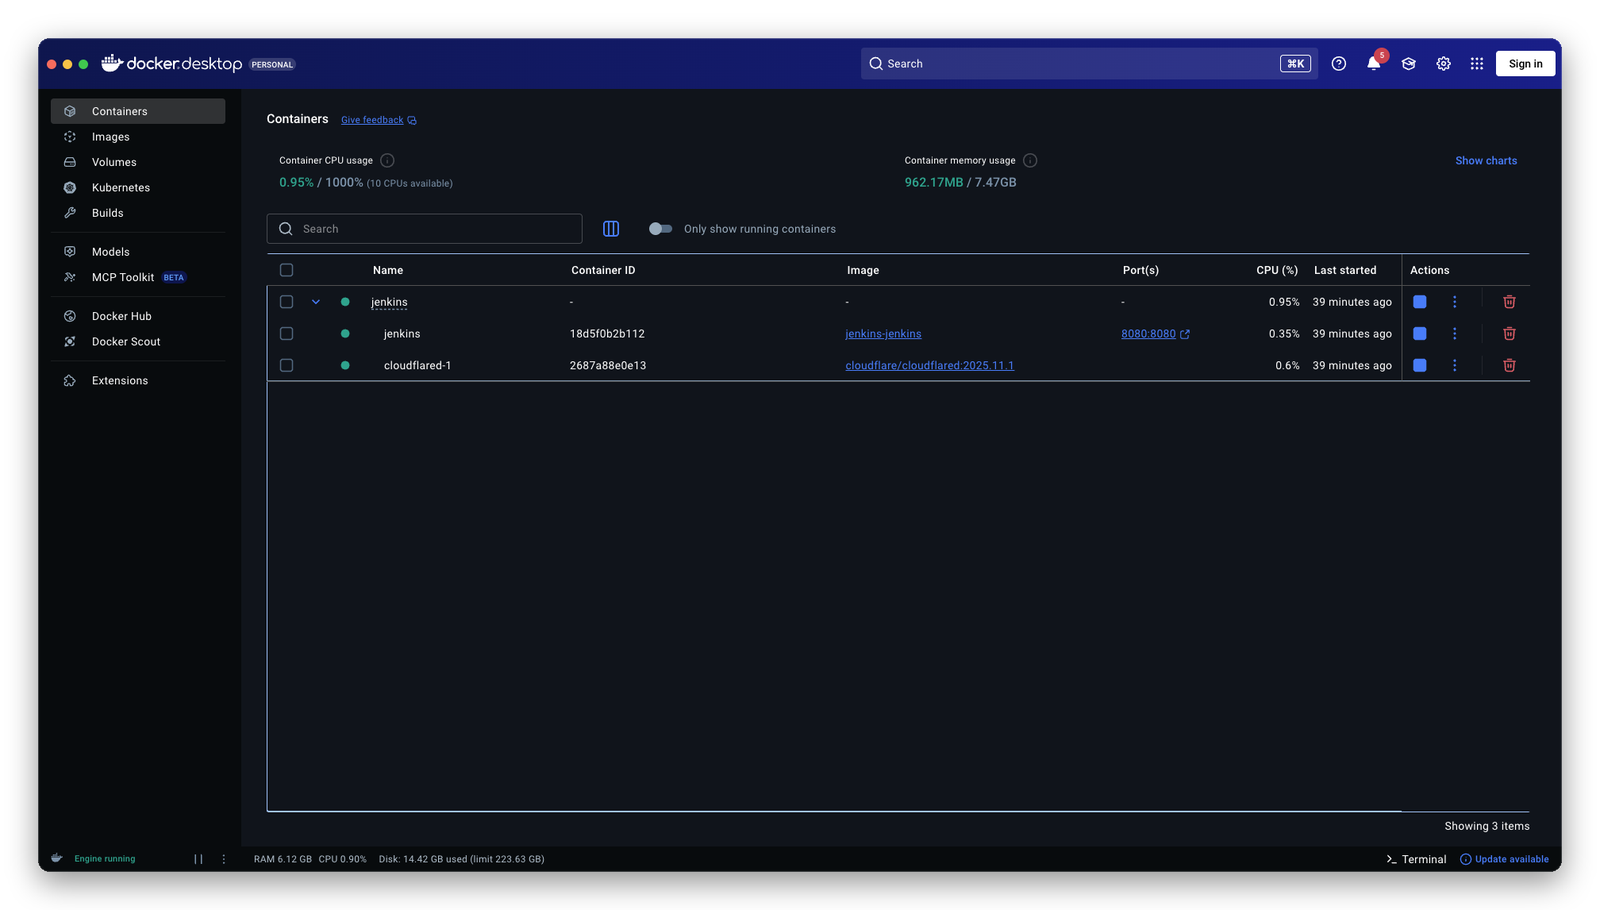
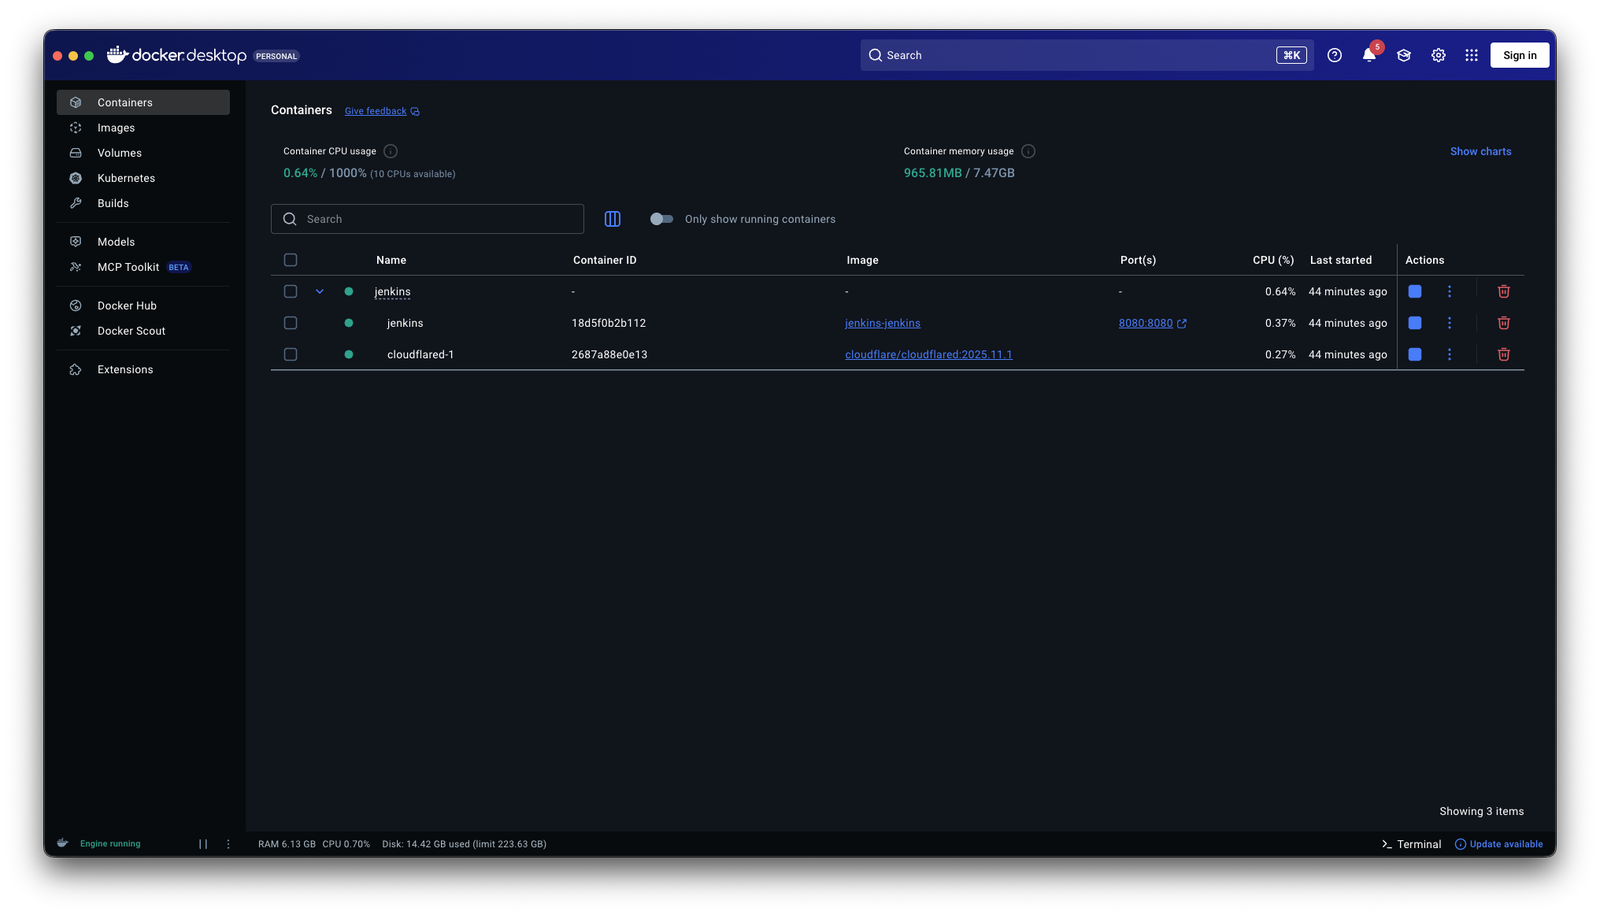
Agrega captura del PR con check requerido y actualiza la de Docker

diff --git a/README.md b/README.md
@@ -216,9 +216,11 @@ Los dos servicios del Compose en ejecución: `jenkins` y `cloudflared`.
 
 ![Contenedores de Jenkins y cloudflared en Docker Desktop](docs/capturas/jenkins-docker-compose.png)
 
-### Pendiente
+### Protección de `main`: el CI como check requerido
 
-- Pull request bloqueado por un CI en rojo (`docs/capturas/pr-bloqueado.png`).
+Pull request #2: el check **CI / Lint, build y pruebas** aparece como *Required* y el botón de merge solo se habilita cuando pasa en verde.
+
+![Pull request con el check requerido del CI en verde](docs/capturas/pr-check-requerido.png)
 
 ---
 
